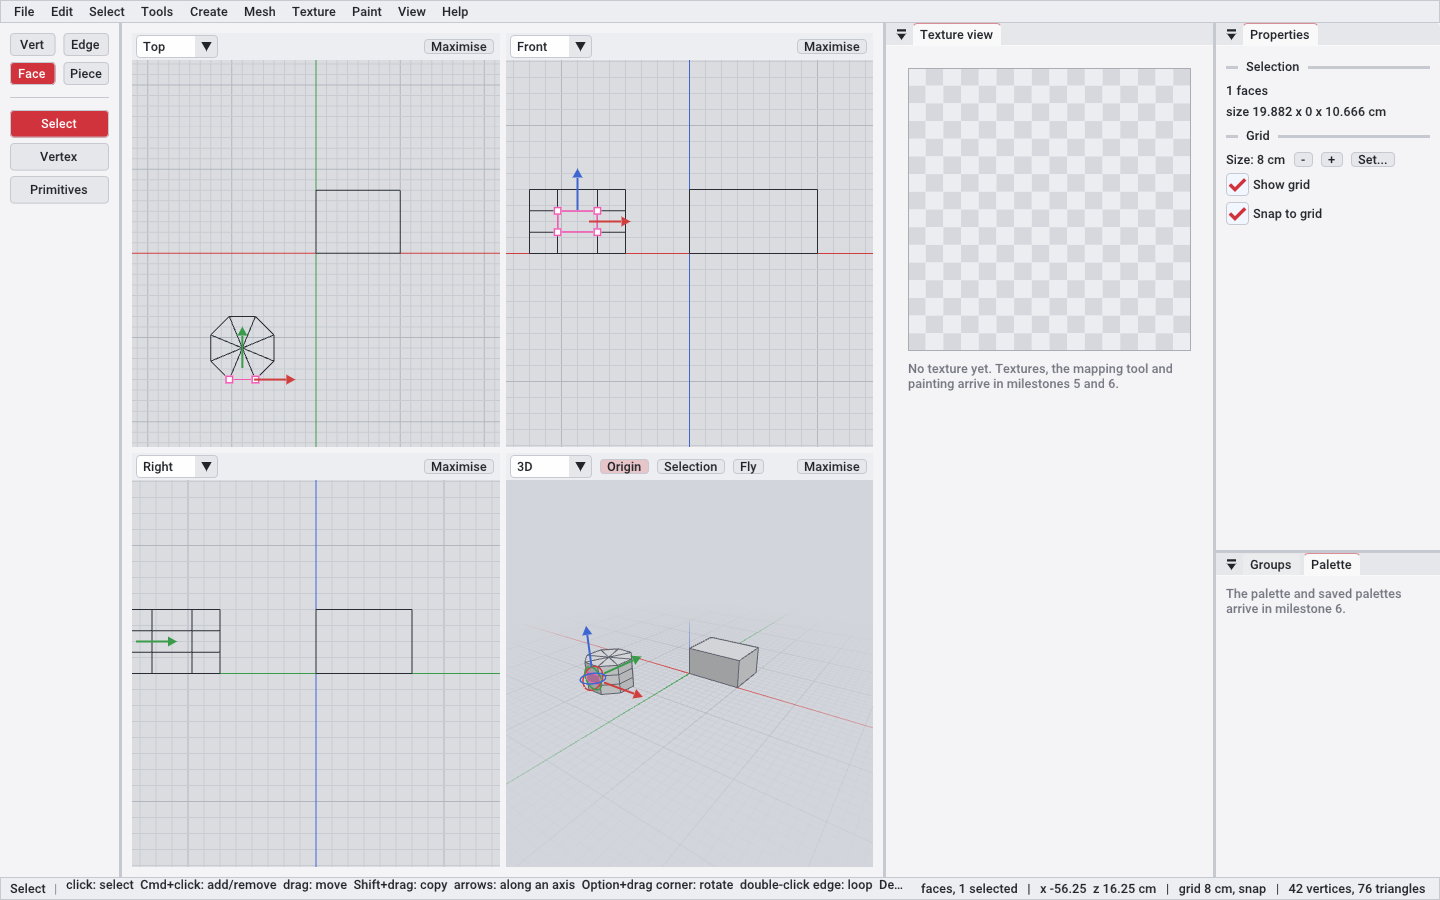
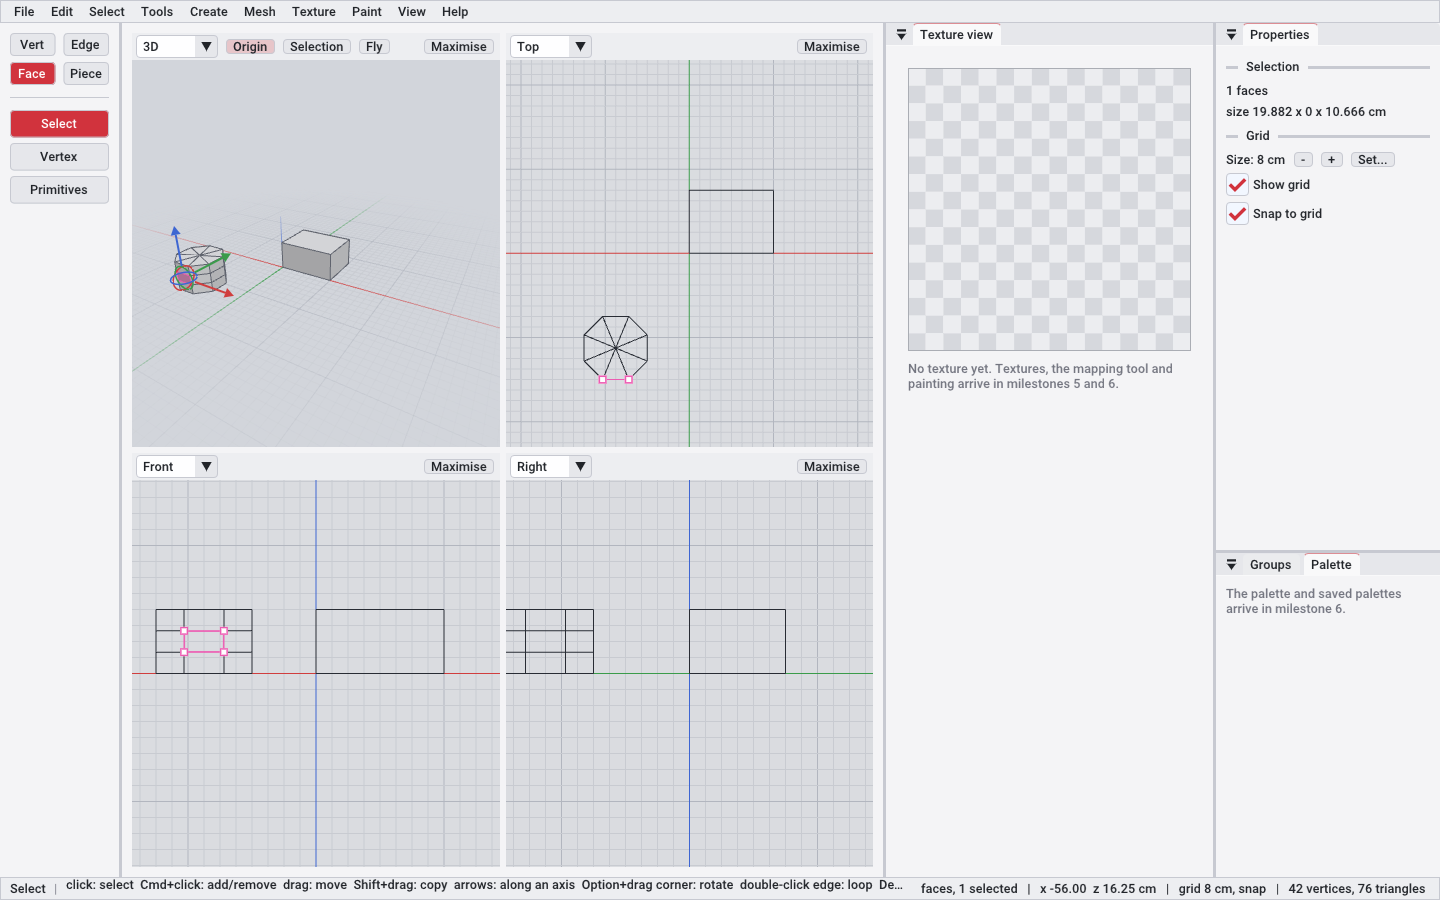
Arrows in the 3D view only; views ordered 3D, Top / Front, Right as in Scalpellino

diff --git a/src/ui/panels.cpp b/src/ui/panels.cpp
@@ -102,7 +102,14 @@ void Editor::propertiesPanel() {
     else {
         Vec3 mn, mx;
         selectionBounds(doc_.mesh, doc_.sel, mn, mx);
-        ImGui::Text("%d faces", (int)doc_.sel.faces.size());
+        const SelectMode md = doc_.sel.mode;
+        const int n = md == SelectMode::Vert ? (int)doc_.sel.verts.size()
+                      : md == SelectMode::Edge ? (int)doc_.sel.edges.size()
+                                               : (int)doc_.sel.faces.size();
+        const char* what = md == SelectMode::Vert ? (n == 1 ? "point" : "points")
+                           : md == SelectMode::Edge ? (n == 1 ? "edge" : "edges")
+                                                    : (n == 1 ? "face" : "faces");
+        ImGui::Text("%d %s", n, what);
         ImGui::Text("size %g x %g x %g cm", mx.x - mn.x, mx.y - mn.y, mx.z - mn.z);
     }
     ImGui::SeparatorText("Grid");
@@ -154,7 +161,7 @@ void Editor::controlsWindow() {
             row("Copy the selection", "Shift+drag inside its box", 0);
             row("Resize", "drag a side or corner handle (the opposite side stays)", 0);
             row("Rotate", "Option+drag a corner (15\xC2\xB0 steps, +Shift free); rings in the 3D view", 0);
-            row("Move along one axis", "drag an X/Y/Z arrow (points, edges, faces)", 0);
+            row("Move along one axis", "drag an X/Y/Z arrow in the 3D view (points, edges, faces)", 0);
             row("Drag a point (Vertex tool)", "press on any point and drag", 0);
             row("Edge loop / ring", "double-click an edge / Shift+double-click", 0);
             row("Pan a view", "middle mouse, or Space + left mouse", 0);

diff --git a/src/tools/handles.cpp b/src/tools/handles.cpp
@@ -269,10 +269,9 @@ namespace {
 constexpr double kArrowLen = 44; // px
 // Screen direction of an axis arrow (false if it points at the viewer).
 bool arrowDir(const ViewGeom& g, const Vec3& centre, int axis, double& cx, double& cy, double& dx, double& dy) {
-    if (!g.is3D()) {
-        const OrthoAxes ax = g.axes();
-        if (axis != ax.u && axis != ax.v) return false;
-    }
+    // Arrows only in the 3D view: in the 2D views they got in the way of the box and its
+    // handles, and dragging there already moves in the view's plane (user, 2026-11-20).
+    if (!g.is3D()) return false;
     double ex, ey;
     if (!g.project(centre, cx, cy)) return false;
     // A step along the axis big enough to measure, whatever the zoom.
@@ -322,6 +321,15 @@ void drawArrows(ImDrawList* dl, const ViewGeom& g, const Vec3& centre, int hotAx
         const ImVec2 l((float)(b.x - dy * 5), (float)(b.y + dx * 5)), r((float)(b.x + dy * 5), (float)(b.y - dx * 5));
         dl->AddTriangleFilled(tip, l, r, kAxisCol[axis]);
     }
+}
+
+bool arrowPoint(const ViewGeom& g, const Vec3& centre, int axis, double cm, double& sx, double& sy) {
+    double cx, cy, dx, dy, ex, ey;
+    if (!arrowDir(g, centre, axis, cx, cy, dx, dy) || !g.project(centre + axisVec(axis), ex, ey)) return false;
+    const double pxPerCm = std::hypot(ex - cx, ey - cy);
+    sx = cx + dx * (kArrowLen * 0.6 + cm * pxPerCm);
+    sy = cy + dy * (kArrowLen * 0.6 + cm * pxPerCm);
+    return true;
 }
 
 Vec3 arrowOffset(const ViewGeom& g, const Grid& grid, const Vec3& centre, const Vec3& mn0, int axis, double x0,

diff --git a/src/tools/handles.hpp b/src/tools/handles.hpp
@@ -40,12 +40,15 @@ Vec3 viewAxisTowardViewer(const ViewGeom& g); // 2D views: the axis rotations tu
 void drawBox2D(ImDrawList* dl, const ViewGeom& g, const Vec3& mn, const Vec3& mx, ImU32 col, bool handles, bool dashed);
 void drawBox3D(ImDrawList* dl, const ViewGeom& g, const Vec3& mn, const Vec3& mx, ImU32 col);
 void drawRings(ImDrawList* dl, const ViewGeom& g, const Vec3& mn, const Vec3& mx, int hotAxis);
-// Arrows: X/Y/Z arrows at the selection's centre (the two in a 2D view's plane; all
-// three in 3D, unless one points almost straight at the viewer). hitArrows gives the
+// Arrows: X/Y/Z arrows at the selection's centre, in the 3D view only (all three,
+// unless one points almost straight at the viewer). hitArrows gives the
 // axis under the cursor or -1; arrowOffset the world offset along that axis for a drag
 // from (x0, y0) to (x1, y1), snapped so the box's lowest corner lands on the grid.
 int hitArrows(const ViewGeom& g, const Vec3& centre, double sx, double sy);
 void drawArrows(ImDrawList* dl, const ViewGeom& g, const Vec3& centre, int hotAxis);
+// Tests: a screen point on an arrow, `cm` further along the axis from where the arrow
+// can be grabbed (false if that arrow isn't shown).
+bool arrowPoint(const ViewGeom& g, const Vec3& centre, int axis, double cm, double& sx, double& sy);
 Vec3 arrowOffset(const ViewGeom& g, const Grid& grid, const Vec3& centre, const Vec3& mn0, int axis, double x0,
                  double y0, double x1, double y1);
 

diff --git a/src/app/script.cpp b/src/app/script.cpp
@@ -91,6 +91,21 @@ void Editor::stepScript() {
                 if (!geom(v).project(w, sx, sy)) scriptFail("point not visible in that view");
                 else io.AddMousePosEvent((float)sx, (float)sy);
             }
+        } else if (cmd == "varrow") {
+            // Mouse on the selection's arrow (axis 0/1/2) in a view, `cm` along it.
+            int v = 0, axis = 0;
+            double cm = 0;
+            in >> v >> axis >> cm;
+            // The arrow as it was when the button went down (the selection moves while
+            // dragging).
+            static Vec3 anchor;
+            Vec3 mn, mx;
+            double sx = 0, sy = 0;
+            if (!io.MouseDown[0] && selectionBounds(doc_.mesh, doc_.sel, mn, mx)) anchor = (mn + mx) / 2;
+            if (viewIndex(v)) {
+                if (doc_.sel.empty() || !arrowPoint(geom(v), anchor, axis, cm, sx, sy)) scriptFail("no such arrow");
+                else io.AddMousePosEvent((float)sx, (float)sy);
+            }
         } else if (cmd == "hold" || cmd == "letgo") {
             // Modifier keys held during mouse actions: shift, cmd, alt (Option).
             std::string k;

diff --git a/src/app/editor.cpp b/src/app/editor.cpp
@@ -33,10 +33,11 @@ const char* selectModeName(SelectMode m) {
 
 Editor::Editor(GLFWwindow* window, const EditorOptions& opt) : window_(window), opt_(opt) {
     // Default views: Top | Front over Right | 3D.
-    views_[0].setDir(ViewDir::Top);
-    views_[1].setDir(ViewDir::Front);
-    views_[2].setDir(ViewDir::Right);
-    views_[3].setDir(ViewDir::Persp);
+    // 3D | Top over Front | Right, as in Scalpellino (user, 2026-11-20).
+    views_[0].setDir(ViewDir::Persp);
+    views_[1].setDir(ViewDir::Top);
+    views_[2].setDir(ViewDir::Front);
+    views_[3].setDir(ViewDir::Right);
     gridDialogValue_ = grid_.size;
     if (!opt_.scriptPath.empty()) {
         scriptMode_ = true;

diff --git a/docs/ARCHITECTURE.md b/docs/ARCHITECTURE.md
@@ -146,14 +146,16 @@ to the GPU → one redraw of the views that show it.
 ### Window layout (default)
 ```
 ┌──┬──────────────┬──────────────┬──────────────────┬─────────┐
-│T │     Top      │    Front     │                  │  Props  │
+│T │      3D      │     Top      │                  │  Props  │
 │o │              │              │   Texture view   │         │
 │o ├──────────────┼──────────────┤  (texture sheet  │  ─────  │
-│l │     Side     │      3D      │   + pixel grid)  │ Groups/ │
+│l │    Front     │    Right     │   + pixel grid)  │ Groups/ │
 │s │              │              │                  │ Palette │
 └──┴──────────────┴──────────────┴──────────────────┴─────────┘
   status bar: tool · selection · cursor position · vertices / triangles
 ```
+- **Views:** 3D top left, Top top right, Front bottom left, Right bottom right, as in
+  Scalpellino (user, 2026-11-20).
 - **Tool bar on the left** (agreed 2026-11-19, as in Scalpellino): the main tools as
   buttons down the left edge. No panel listing every tool. It shows only tools that
   work in the current release (it grows milestone by milestone; menus still list later
@@ -234,8 +236,9 @@ the model gets:
 - **Rotating:** Option+drag a corner handle (15° steps, +Shift free), as in Scalpellino.
   The 3D view shows **rotation rings** (X/Y/Z) around the selection. By default
   everything turns about the selection's centre.
-- **Arrows:** points, edges and faces also get X/Y/Z **arrows** (2D and 3D views):
-  drag one to push the selection along that axis, snapped.
+- **Arrows:** points, edges and faces also get X/Y/Z **arrows**, in the 3D view only
+  (in the 2D views they got in the way; user, 2026-11-20): drag one to push the
+  selection along that axis, snapped.
 - **Moving / copying:** drag to move; Shift+drag makes a copy. Snapping puts the box's
   lowest corner on the grid, as in Scalpellino (something off the grid snaps onto it).
   In the 3D view a drag draws a selection rectangle; moving is done in the 2D views,

diff --git a/docs/LOG.md b/docs/LOG.md
@@ -4,6 +4,18 @@ What was done, step by step, newest first. Recent work lives here; when this fil
 long, move the oldest entries to `LOG-archive.md` (newest first there too). Status, plan
 and open questions are in [`PLAN.md`](PLAN.md).
 
+### 2026-11-20 — After v0.1.2: arrows in 3D only; views ordered like Scalpellino
+- User (screenshot): the arrows in the 2D views got in the way. They now show in the 3D
+  view only; in 2D the selection box and its handles move things as before.
+- User: default views 3D, Top / Front, Right, as in Scalpellino. View numbers in every
+  UI script moved with them (0 = 3D, 1 Top, 2 Front, 3 Right).
+- The arrow test moved to the 3D view, with a script helper `varrow` (mouse on an
+  arrow). Its first version aimed at the arrow of the already-moving selection, so the
+  mouse ran ahead; it now keeps the arrow where it was when the button went down.
+- Properties counted faces in every mode ("1 faces"); now points / edges / faces.
+- ARCHITECTURE (arrows, layout diagram), README, Help → Controls updated. All UI
+  scripts at 1× and 2× and idle pass. In "latest"; goes out with v0.1.3.
+
 ### 2026-11-20 — v0.1.2, steps E–F: rounded edges; release
 - Rounded edges: box (flat faces + a strip of 1–3 faces along each edge + a corner patch
   of q² triangles, built at the real proportions so the rounding is the same size in cm

diff --git a/README.md b/README.md
@@ -34,7 +34,7 @@ including the planned ones with the milestone that brings them.
 | Move / copy | drag inside the selection's box in a 2D view (snapped); **Shift+drag** copies |
 | Resize | drag a side or corner handle of the selection's box (the opposite side stays) |
 | Rotate | **Option+drag** a corner handle (15° steps, add **Shift** for free); the rings in the 3D view |
-| Move along one axis | drag an X/Y/Z arrow (points, edges, faces) |
+| Move along one axis | drag an X/Y/Z arrow in the 3D view (points, edges, faces) |
 | Drag a point | Vertex tool: press on any point and drag (in a 2D view all the points stacked there move) |
 | Edge loop / ring | double-click an edge / **Shift**+double-click (also in the Select menu) |
 | Grow / shrink selection | **Cmd++** / **Cmd+è** |

diff --git a/docs/DEV.md b/docs/DEV.md
@@ -83,6 +83,7 @@ saveas <file> | open <file>         save / open without dialogs (relative to the
 addbox <x0 y0 z0 x1 y1 z1>          test helper: add a box as one undo step, selected
 vworld <view> <x> <y> <z>           mouse over a world point as that view shows it
 hold <shift|cmd|alt> / letgo <...>  hold / release a modifier for the next mouse actions
+varrow <view> <axis> <cm>           mouse on the selection's X/Y/Z arrow (0/1/2), cm along it
 expect bounds <x0 y0 z0 x1 y1 z1>   whole model bounds;  selbounds: the selection's
 expect preview <0|1>                the Primitives tool shows a preview box
 expect previewfaces <n>             faces of the previewed shape
